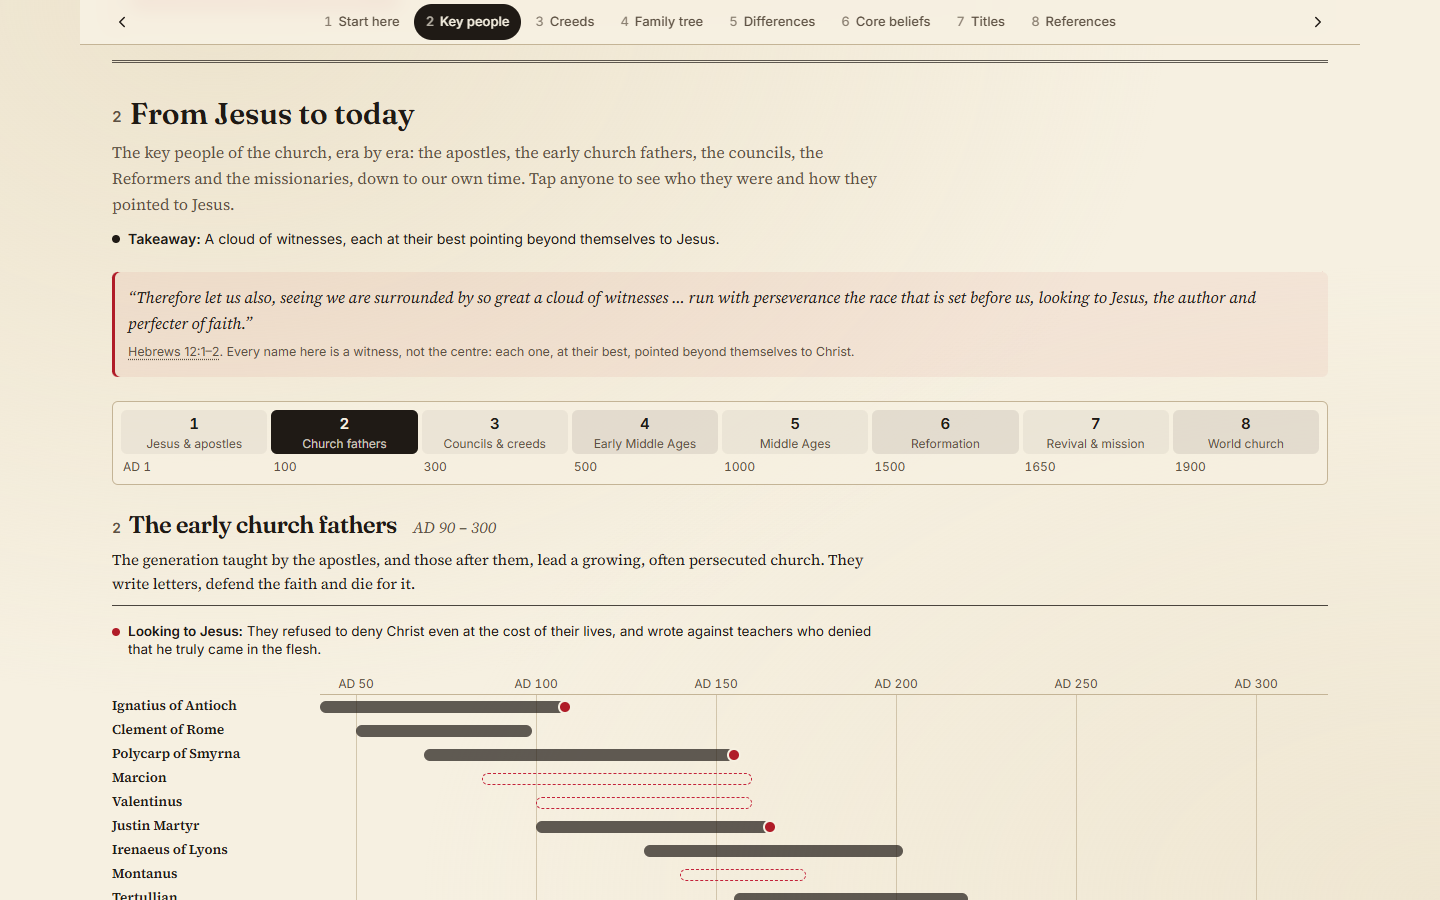
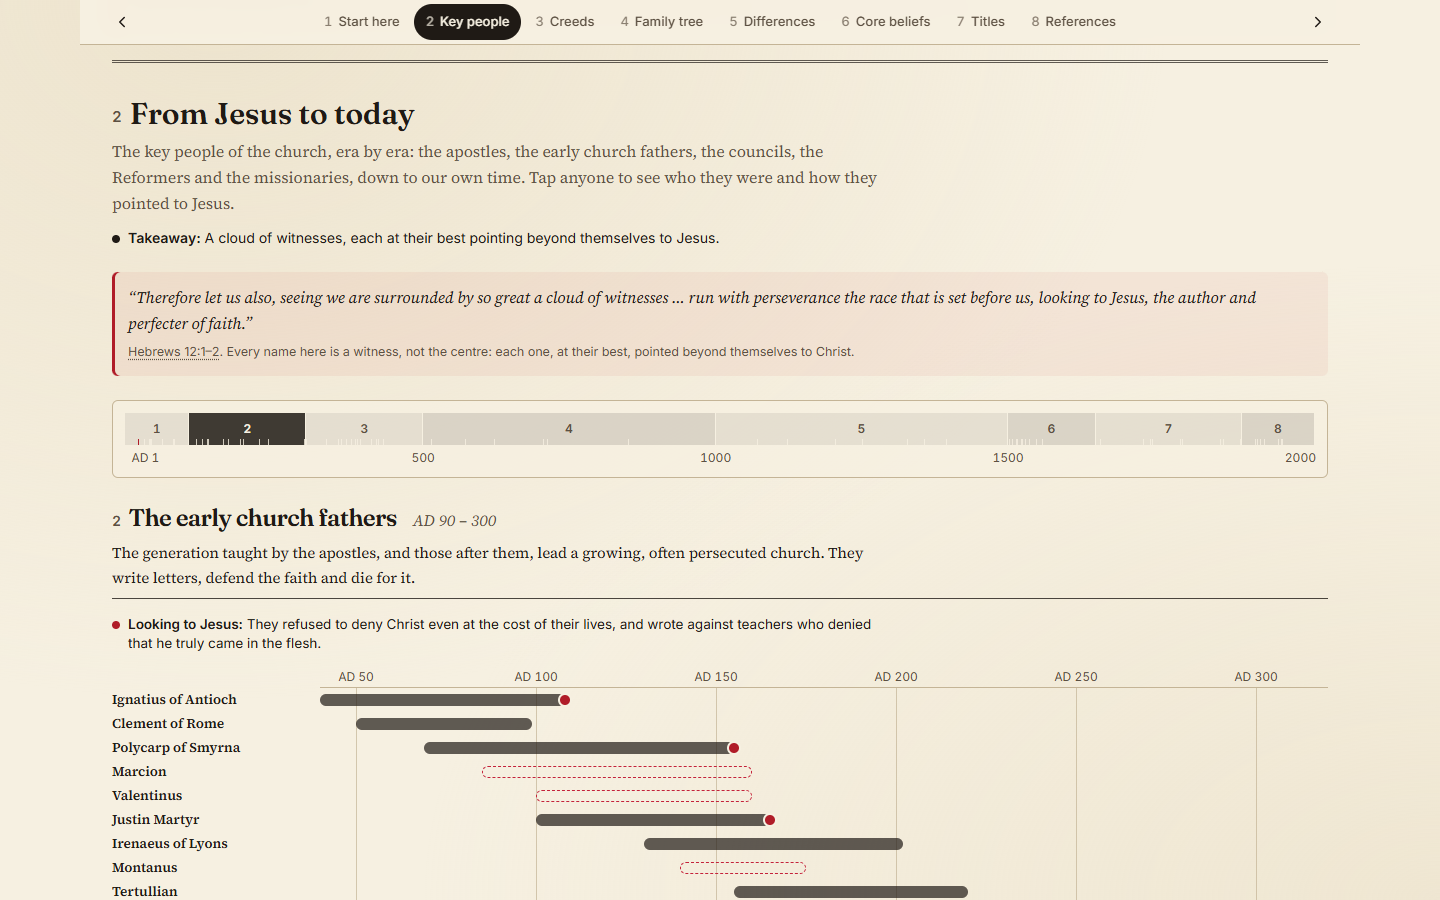
Key people: back to the to-scale era strip (now the era switch, with arrow keys)

diff --git a/src/components/history/KeyPeople.tsx b/src/components/history/KeyPeople.tsx
@@ -34,38 +34,62 @@ function Diamond({ css, size = 10 }: { css: string; size?: number }) {
 }
 
 /**
- * The eras from Jesus to today, in order, as one strip: tap an era to show it. Each era gets an equal
- * share of the strip (the early eras are short in years but full of people), with its dates beneath.
+ * The whole two thousand years as one strip, drawn to scale: each era is a segment you can tap, with a
+ * tick for every person. It is the way to switch eras (with "Next era" under the chart); the arrow keys
+ * move along it too.
  */
 function EraStrip({ era, onPick }: { era: EraId; onPick: (id: EraId) => void }) {
-  const starts = ['AD 1', '100', '300', '500', '1000', '1500', '1650', '1900'];
-  const short = ['Jesus & apostles', 'Church fathers', 'Councils & creeds', 'Early Middle Ages', 'Middle Ages', 'Reformation', 'Revival & mission', 'World church'];
+  const from = -10,
+    to = 2025;
+  const x = (y: number) => ((y - from) / (to - from)) * 100;
+  const bounds = [-10, 100, 300, 500, 1000, 1500, 1650, 1900, 2025];
+  const at = ERAS.findIndex((e) => e.id === era);
+  const onKey = (e: import("react").KeyboardEvent) => {
+    const d = e.key === 'ArrowRight' || e.key === 'ArrowDown' ? 1 : e.key === 'ArrowLeft' || e.key === 'ArrowUp' ? -1 : 0;
+    if (!d) return;
+    e.preventDefault();
+    const n = Math.min(ERAS.length - 1, Math.max(0, at + d));
+    onPick(ERAS[n].id);
+    requestAnimationFrame(() => (document.querySelector(`[data-era="${ERAS[n].id}"]`) as HTMLElement | null)?.focus());
+  };
   return (
-    <div role="radiogroup" aria-label="Era" className="rounded-md border border-rule bg-paper/80 p-2">
-      <div className="grid grid-cols-8 gap-1">
+    <div className="rounded-md border border-rule bg-paper/80 px-3 py-3">
+      <div role="radiogroup" aria-label="Era" onKeyDown={onKey} className="relative h-8">
         {ERAS.map((e, i) => {
+          const l = x(bounds[i]),
+            w = x(bounds[i + 1]) - l;
           const on = e.id === era;
           return (
             <button
               key={e.id}
+              data-era={e.id}
               role="radio"
               aria-checked={on}
-              aria-label={`${i + 1}. ${e.name}, ${e.span}`}
-              title={`${e.name} (${e.span})`}
+              tabIndex={on ? 0 : -1}
               onClick={() => onPick(e.id)}
-              className={`focus-ring flex min-h-11 flex-col items-center justify-center rounded-md px-0.5 transition-colors ${on ? 'bg-ink text-paper' : 'hover:bg-ink/[0.07]'}`}
-              style={on ? undefined : { background: cssColor('--ink', 0.05 + (i % 2) * 0.04) }}
+              title={`${e.name} (${e.span})`}
+              aria-label={`${i + 1}. ${e.name}, ${e.span}`}
+              className="focus-ring absolute inset-y-0 flex items-center justify-center border-r border-paper transition-colors"
+              style={{ left: `${l}%`, width: `${w}%`, background: on ? cssColor('--ink', 0.85) : cssColor('--ink', 0.08 + (i % 2) * 0.05) }}
             >
-              <span className="font-sans text-[15px] font-bold tabular-nums">{i + 1}</span>
-              <span className={`hidden font-sans text-[12px] leading-tight md:block ${on ? 'text-paper/80' : 'text-ink-soft'}`}>{short[i]}</span>
+              <span className={`font-sans text-[12px] font-bold tabular-nums ${on ? 'text-paper' : 'text-ink-soft'}`}>{i + 1}</span>
             </button>
           );
         })}
+        {/* each person as a tick */}
+        {WITNESSES.map((w) => (
+          <span
+            key={w.id}
+            aria-hidden
+            className="pointer-events-none absolute bottom-0 h-1.5 w-px"
+            style={{ left: `${x((w.from + w.to) / 2)}%`, background: cssColor(w.stream === 'jesus' ? '--lineage' : '--paper', w.stream === 'jesus' ? 1 : 0.8) }}
+          />
+        ))}
       </div>
-      <div className="mt-1 grid grid-cols-8 gap-1 font-sans text-[12px] tabular-nums text-ink-soft">
-        {starts.map((y, i) => (
-          <span key={y} className={`pl-0.5 ${i % 2 ? 'hidden sm:block' : ''}`}>
-            {y}
+      <div className="relative mt-1 h-4 font-sans text-[12px] tabular-nums text-ink-soft">
+        {[1, 500, 1000, 1500, 2000].map((t) => (
+          <span key={t} className="absolute -translate-x-1/2 first:translate-x-0" style={{ left: `${x(t)}%` }}>
+            {t === 1 ? 'AD 1' : t}
           </span>
         ))}
       </div>
